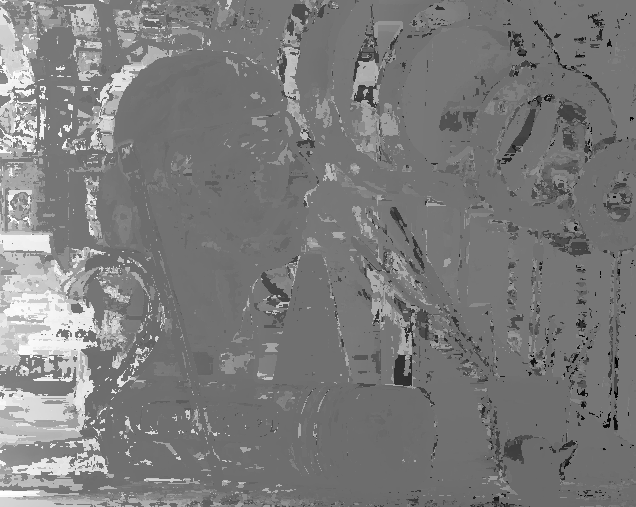
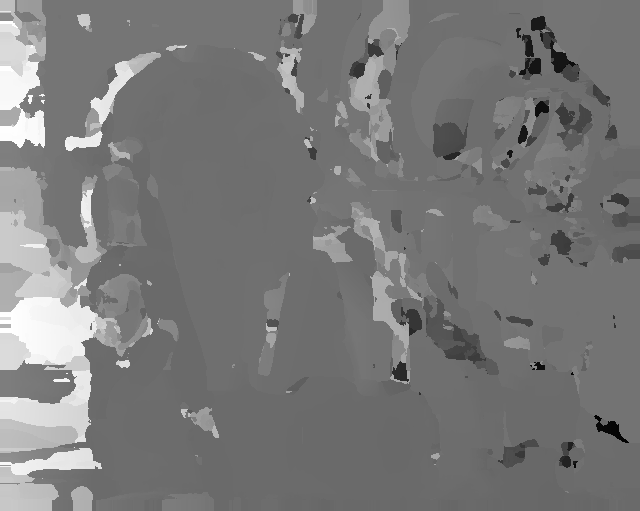
Add completed code for PS2

diff --git a/ps2_python/ps2.py b/ps2_python/ps2.py
@@ -15,10 +15,10 @@ def ps2_1():
     D_L = disparity_ssd(L, R, 15)
     D_R = disparity_ssd(R, L, 15)
     # shift and scale disparity maps
-    D_L = D_L - D_L.min()
-    D_L = D_L / D_L.max() * 255.0
-    D_R = D_R - D_R.min()
-    D_R = D_R / D_R.max() * 255.0
+    D_L = cv2.normalize(D_L, D_L, alpha=0, beta=255, norm_type=cv2.NORM_MINMAX,
+                        dtype=cv2.CV_8U)
+    D_R = cv2.normalize(D_R, D_R, alpha=0, beta=255, norm_type=cv2.NORM_MINMAX,
+                        dtype=cv2.CV_8U)
     # save disparity maps
     cv2.imwrite('output/ps2-1-a-1.png', D_L)
     cv2.imwrite('output/ps2-1-a-2.png', D_R)
@@ -29,13 +29,13 @@ def ps2_2():
     L = cv2.imread('input/pair1-L.png', cv2.IMREAD_GRAYSCALE) * (1.0 / 255.0)
     R = cv2.imread('input/pair1-R.png', cv2.IMREAD_GRAYSCALE) * (1.0 / 255.0)
     # compute disparity maps
-    D_L = disparity_ssd(L, R, 5)
-    D_R = disparity_ssd(R, L, 5)
+    D_L = disparity_ssd(L, R, 15)
+    D_R = disparity_ssd(R, L, 15)
     # shift and scale disparity maps
-    D_L = D_L - D_L.min()
-    D_L = D_L / D_L.max() * 255.0
-    D_R = D_R - D_R.min()
-    D_R = D_R / D_R.max() * 255.0
+    D_L = cv2.normalize(D_L, D_L, alpha=0, beta=255, norm_type=cv2.NORM_MINMAX,
+                        dtype=cv2.CV_8U)
+    D_R = cv2.normalize(D_R, D_R, alpha=0, beta=255, norm_type=cv2.NORM_MINMAX,
+                        dtype=cv2.CV_8U)
     # save disparity maps
     cv2.imwrite('output/ps2-2-a-1.png', D_L)
     cv2.imwrite('output/ps2-2-a-2.png', D_R)
@@ -63,13 +63,19 @@ def ps2_3():
     D_L_c = disparity_ssd(L_c, R)
     D_R_c = disparity_ssd(R, L_c)
     # shift and scale disparity maps
-    D_L_n = (D_L_n - D_L_n.min()) / D_L_n.max() * 255.0
-    D_R_n = (D_R_n - D_R_n.min()) / D_R_n.max() * 255.0
-    D_L_c = (D_L_c - D_L_c.min()) / D_L_c.max() * 255.0
-    D_R_c = (D_R_c - D_R_c.min()) / D_R_c.max() * 255.0
+    D_L_n = cv2.normalize(D_L_n, D_L_n, alpha=0, beta=255,
+                          norm_type=cv2.NORM_MINMAX, dtype=cv2.CV_8U)
+    D_R_n = cv2.normalize(D_R_n, D_R_n, alpha=0, beta=255,
+                          norm_type=cv2.NORM_MINMAX, dtype=cv2.CV_8U)
+    D_L_c = cv2.normalize(D_L_c, D_L_c, alpha=0, beta=255,
+                          norm_type=cv2.NORM_MINMAX, dtype=cv2.CV_8U)
+    D_R_c = cv2.normalize(D_R_c, D_R_c, alpha=0, beta=255,
+                          norm_type=cv2.NORM_MINMAX, dtype=cv2.CV_8U)
     # save disparity maps
+    cv2.imwrite('output/ps2-3-a-0.png', L_n)
     cv2.imwrite('output/ps2-3-a-1.png', D_L_n)
     cv2.imwrite('output/ps2-3-a-2.png', D_R_n)
+    cv2.imwrite('output/ps2-3-b-0.png', L_c)
     cv2.imwrite('output/ps2-3-b-1.png', D_L_c)
     cv2.imwrite('output/ps2-3-b-2.png', D_R_c)
 
@@ -86,36 +92,60 @@ def ps2_4():
     #  cv2.normalize(L_n, L_n, alpha=0.0, beta=1.0, norm_type=cv2.NORM_MINMAX)
     #  cv2.normalize(L_c, L_c, alpha=0.0, beta=1.0, norm_type=cv2.NORM_MINMAX)
     # compute disparity maps
-    D_L = disparity_ncorr(L, R, template_size=15)
-    #  D_R = disparity_ncorr(R, L)
-    #  D_L_n = disparity_ncorr(L_n, R)
-    #  D_R_n = disparity_ncorr(R, L_n)
-    #  D_L_c = disparity_ncorr(L_c, R)
-    #  D_R_c = disparity_ncorr(R, L_c)
+    template_size=5
+    D_L = disparity_ncorr(L, R, template_size=template_size)
+    #  D_R = disparity_ncorr(R, L, template_size=template_size)
+    #  D_L_n = disparity_ncorr(L_n, R, template_size=template_size)
+    #  D_R_n = disparity_ncorr(R, L_n, template_size=template_size)
+    #  D_L_c = disparity_ncorr(L_c, R, template_size=template_size)
+    #  D_R_c = disparity_ncorr(R, L_c, template_size=template_size)
     # shift and scale disparity maps
-    D_L = (D_L - D_L.min()) / D_L.max() * 255.0
-    #  D_R = (D_R - D_R.min()) / D_R.max() * 255.0
-    #  D_L_n = (D_L_n - D_L_n.min()) / D_L_n.max() * 255.0
-    #  D_R_n = (D_R_n - D_R_n.min()) / D_R_n.max() * 255.0
-    #  D_L_c = (D_L_c - D_L_c.min()) / D_L_c.max() * 255.0
-    #  D_R_c = (D_R_c - D_R_c.min()) / D_R_c.max() * 255.0
+    D_L = cv2.normalize(D_L, D_L, alpha=0, beta=255, norm_type=cv2.NORM_MINMAX,
+                        dtype=cv2.CV_8U)
+    #  D_R = cv2.normalize(D_R, D_R, alpha=0, beta=255, norm_type=cv2.NORM_MINMAX,
+                        #  dtype=cv2.CV_8U)
+    #  D_L_n = cv2.normalize(D_L_n, D_L_n, alpha=0, beta=255,
+                          #  norm_type=cv2.NORM_MINMAX, dtype=cv2.CV_8U)
+    #  D_R_n = cv2.normalize(D_R_n, D_R_n, alpha=0, beta=255,
+                          #  norm_type=cv2.NORM_MINMAX, dtype=cv2.CV_8U)
+    #  D_L_c = cv2.normalize(D_L_c, D_L_c, alpha=0, beta=255,
+                          #  norm_type=cv2.NORM_MINMAX, dtype=cv2.CV_8U)
+    #  D_R_c = cv2.normalize(D_R_c, D_R_c, alpha=0, beta=255,
+                          #  norm_type=cv2.NORM_MINMAX, dtype=cv2.CV_8U)
     # save disparity maps
     cv2.imwrite('output/ps2-4-a-1.png', D_L)
     #  cv2.imwrite('output/ps2-4-a-2.png', D_R)
-    #  cv2.imwrite('output/ps2-4-a-1.png', D_L_n)
-    #  cv2.imwrite('output/ps2-4-a-2.png', D_R_n)
-    #  cv2.imwrite('output/ps2-4-b-1.png', D_L_c)
-    #  cv2.imwrite('output/ps2-4-b-2.png', D_R_c)
+    #  cv2.imwrite('output/ps2-4-b-1.png', D_L_n)
+    #  cv2.imwrite('output/ps2-4-b-2.png', D_R_n)
+    #  cv2.imwrite('output/ps2-4-b-3.png', D_L_c)
+    #  cv2.imwrite('output/ps2-4-b-4.png', D_R_c)
 
 # 5: Experiment with last image and smoothing/sharpening etc and comparing
 #    the disparity maps with the ground truth
 def ps2_5():
-    pass
+    # read real image pair in grayscale
+    L = cv2.imread('input/pair2-L.png', cv2.IMREAD_GRAYSCALE) * (1.0 / 255.0)
+    R = cv2.imread('input/pair2-R.png', cv2.IMREAD_GRAYSCALE) * (1.0 / 255.0)
+    # TODO: smoothen, sharpen etc. to get better results
+    # compute disparity maps
+    D_L = disparity_ncorr(L, R, 5)
+    D_R = disparity_ncorr(R, L, 5)
+    # shift and scale disparity maps
+    D_L = cv2.normalize(D_L, D_L, alpha=0, beta=255, norm_type=cv2.NORM_MINMAX,
+                        dtype=cv2.CV_8U)
+    D_R = cv2.normalize(D_R, D_R, alpha=0, beta=255, norm_type=cv2.NORM_MINMAX,
+                        dtype=cv2.CV_8U)
+    # save disparity maps
+    cv2.imwrite('output/ps2-5-a-1.png', D_L)
+    cv2.imwrite('output/ps2-5-a-2.png', D_R)
 
 ps2_list = [ps2_1, ps2_2, ps2_3, ps2_4, ps2_5]
 if len(sys.argv) == 2:
-    print('Executing task %d'%(int(sys.argv[1])))
-    ps2_list[int(sys.argv[1])-1]()
+    if int(sys.argv[1]) in range(1,6):
+        print('Executing task %d'%(int(sys.argv[1])))
+        ps2_list[int(sys.argv[1])-1]()
+    else:
+        print('Give argument in range [1,5] for the corresponding tasks')
 else:
     print('Executing all tasks:')
     for idx, ps in enumerate(ps2_list):

diff --git a/ps2_python/disparity_ssd.py b/ps2_python/disparity_ssd.py
@@ -2,14 +2,14 @@ import numpy as np
 import cv2
 from numpy.lib.stride_tricks import as_strided
 
-def my_ssd(t, x):
+def my_ssd(x, t):
     tc = t.shape[1]
     xc = x.shape[1]
-    s = np.array([np.sum((t - x[:,i:i+tc]) ** 2) for i in range(xc - tc + 1)],
-                 dtype=np.float32)
+    s = np.array([np.sum((t - x[:,i-tc/2:i+tc/2+1]) ** 2)
+                  for i in range(tc / 2, xc - tc/2)], dtype=np.float32)
     return s[None,:]
 
-def sumsqdiff2(template, input_image, valid_mask=None):
+def sumsqdiff2(input_image, template, valid_mask=None):
     '''
     ssd implementation borrowed from:
         http://stackoverflow.com/questions/17881489/faster-way-to-calculate-sum-of-squared-difference-between-an-image-m-n-and-a
@@ -42,17 +42,20 @@ def disparity_ssd(L, R, template_size=3):
 
     im_rows = L.shape[0]; im_cols = L.shape[1]
     tpl_rows = tpl_cols = template_size
-    D_L = np.ndarray((im_rows - tpl_rows + 1, im_cols - tpl_cols + 1),
+    D_L = np.zeros(L.shape,
                      dtype=np.float32)
-    for r in range(D_L.shape[0]):
-        for c in range(D_L.shape[1]):
-            tpl = L[r:r+tpl_rows, c:c+tpl_cols].astype(np.float32)
-            R_strip = R[r:r+tpl_rows, :].astype(np.float32)
-            #  res = my_ssd(tpl, R_strip)
-            #  res = sumsqdiff2(tpl, R_strip)
-            res = cv2.matchTemplate(R_strip, tpl, method=cv2.TM_SQDIFF)
+    for r in range(tpl_rows/2, im_rows-tpl_rows/2):
+        for c in range(tpl_cols/2, im_cols-tpl_cols/2):
+            tpl = L[r-tpl_rows/2:r+tpl_rows/2+1, c-tpl_cols/2:c+tpl_cols/2+1].astype(np.float32)
+            R_strip = R[r-tpl_rows/2:r+tpl_rows/2+1, :].astype(np.float32)
+            #  res = my_ssd(R_strip, tpl)  # slow
+            #  res = sumsqdiff2(R_strip, tpl) # faster
+            res = cv2.matchTemplate(R_strip, tpl, method=cv2.TM_SQDIFF) # fastest
             _,_,min_loc,_ = cv2.minMaxLoc(res)
-            D_L[r, c] = min_loc[0] - c
+#TODO cost function cost = res + lambda * disparity (punishes far away matches)
+            D_L[r, c] = min_loc[0] + tpl_cols / 2 - c
+    D_L = D_L[tpl_rows/2:im_rows-tpl_rows/2, tpl_cols/2:im_cols-tpl_cols/2]
+    D_L = cv2.copyMakeBorder(D_L, tpl_rows/2, tpl_rows/2, tpl_cols/2, tpl_cols/2, borderType=cv2.BORDER_REPLICATE)
     return D_L
 
 

diff --git a/ps2_python/disparity_ncorr.py b/ps2_python/disparity_ncorr.py
@@ -13,12 +13,16 @@ def disparity_ncorr(L, R, template_size=3):
 
     im_rows = L.shape[0]; im_cols = L.shape[1]
     tpl_rows = tpl_cols = template_size
-    D_L = np.ndarray((im_rows - tpl_rows + 1, im_cols - tpl_cols + 1),
+    D_L = np.ndarray(L.shape,
                      dtype=np.float32)
-    for r in range(D_L.shape[0]):
-        for c in range(D_L.shape[1]):
-            tpl = L[r:r+tpl_rows, c:c+tpl_cols].astype(np.float32)
-            R_strip = R[r:r+tpl_rows, :].astype(np.float32)
+    L_pad = cv2.copyMakeBorder(L, tpl_rows/2, tpl_rows/2, tpl_cols/2,
+                                tpl_cols/2, borderType=cv2.BORDER_CONSTANT, value=0)
+    R_pad = cv2.copyMakeBorder(R, tpl_rows/2, tpl_rows/2, tpl_cols/2,
+                                tpl_cols/2, borderType=cv2.BORDER_CONSTANT, value=0)
+    for r in range(im_rows):
+        for c in range(im_cols):
+            tpl = L_pad[r:r+tpl_rows, c:c+tpl_cols].astype(np.float32)
+            R_strip = R_pad[r:r+tpl_rows, :].astype(np.float32)
             res = cv2.matchTemplate(R_strip, tpl,
                                     method=cv2.TM_CCOEFF_NORMED)
             _,_,_,max_loc = cv2.minMaxLoc(res)
